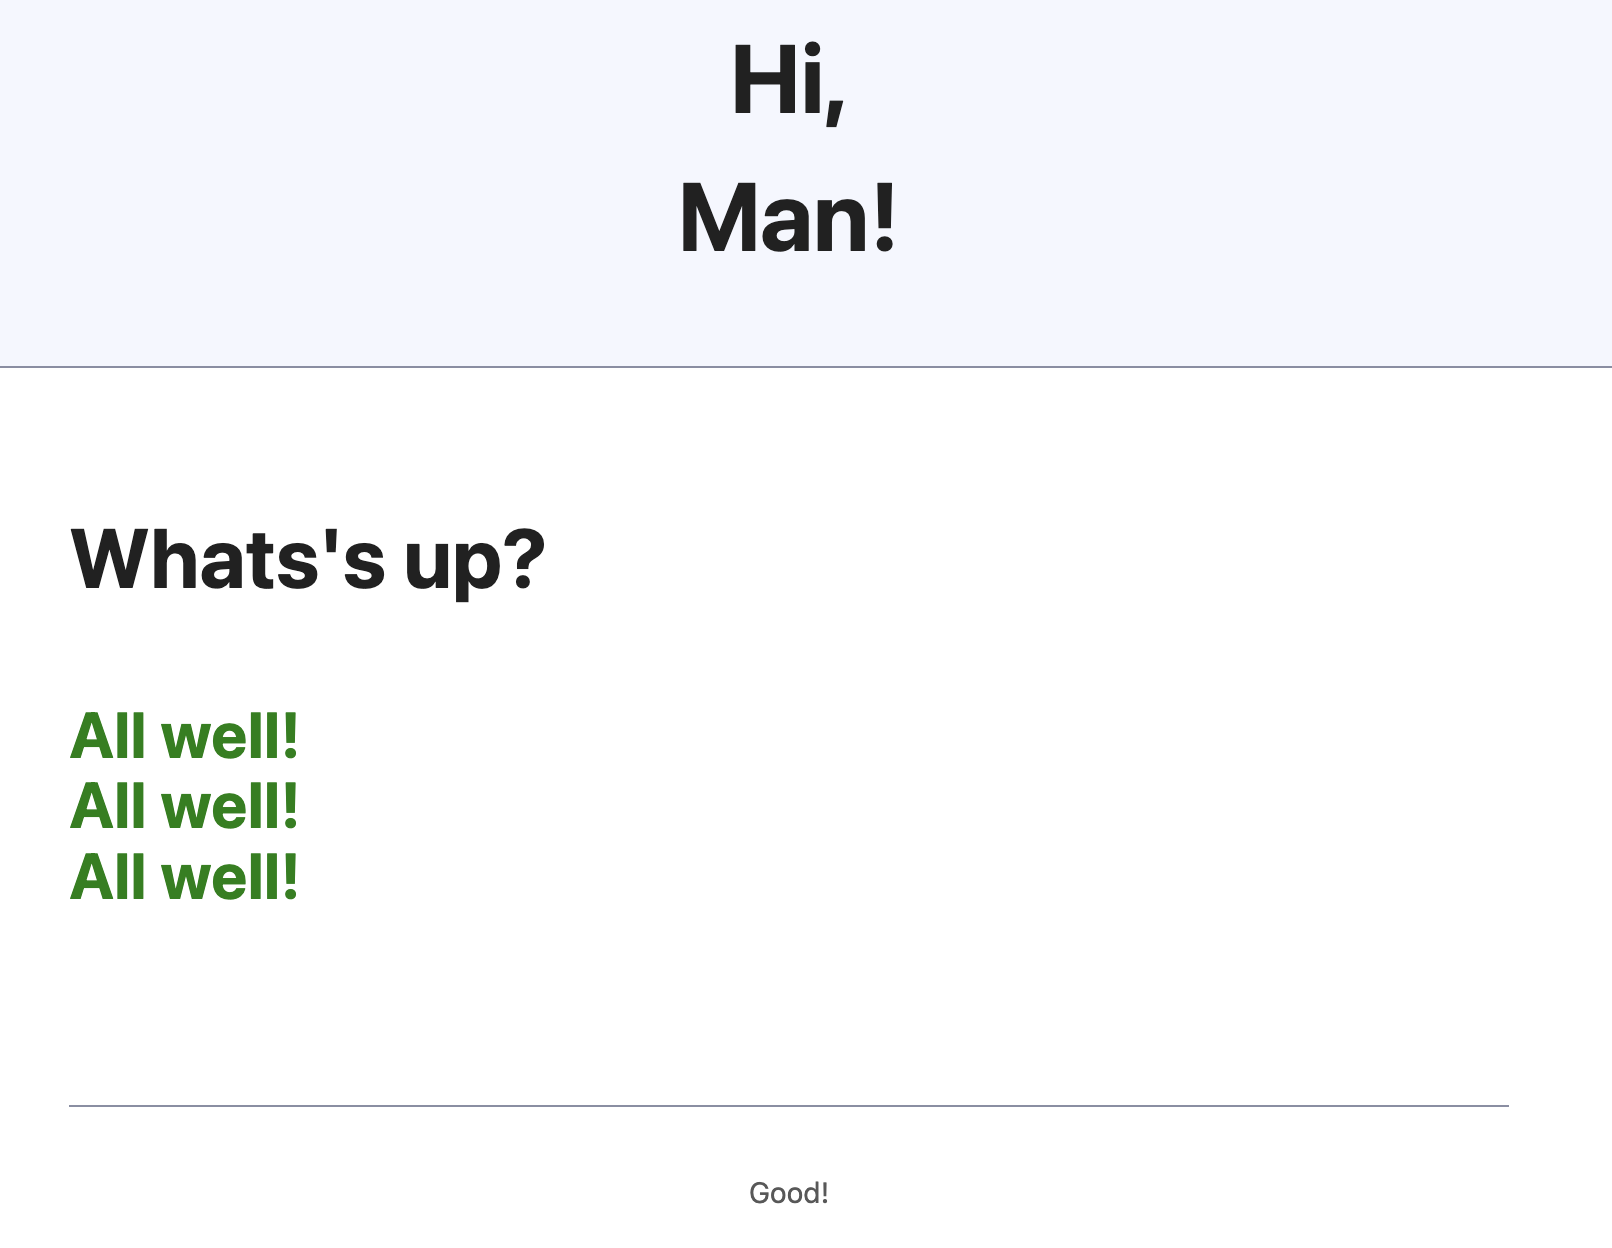
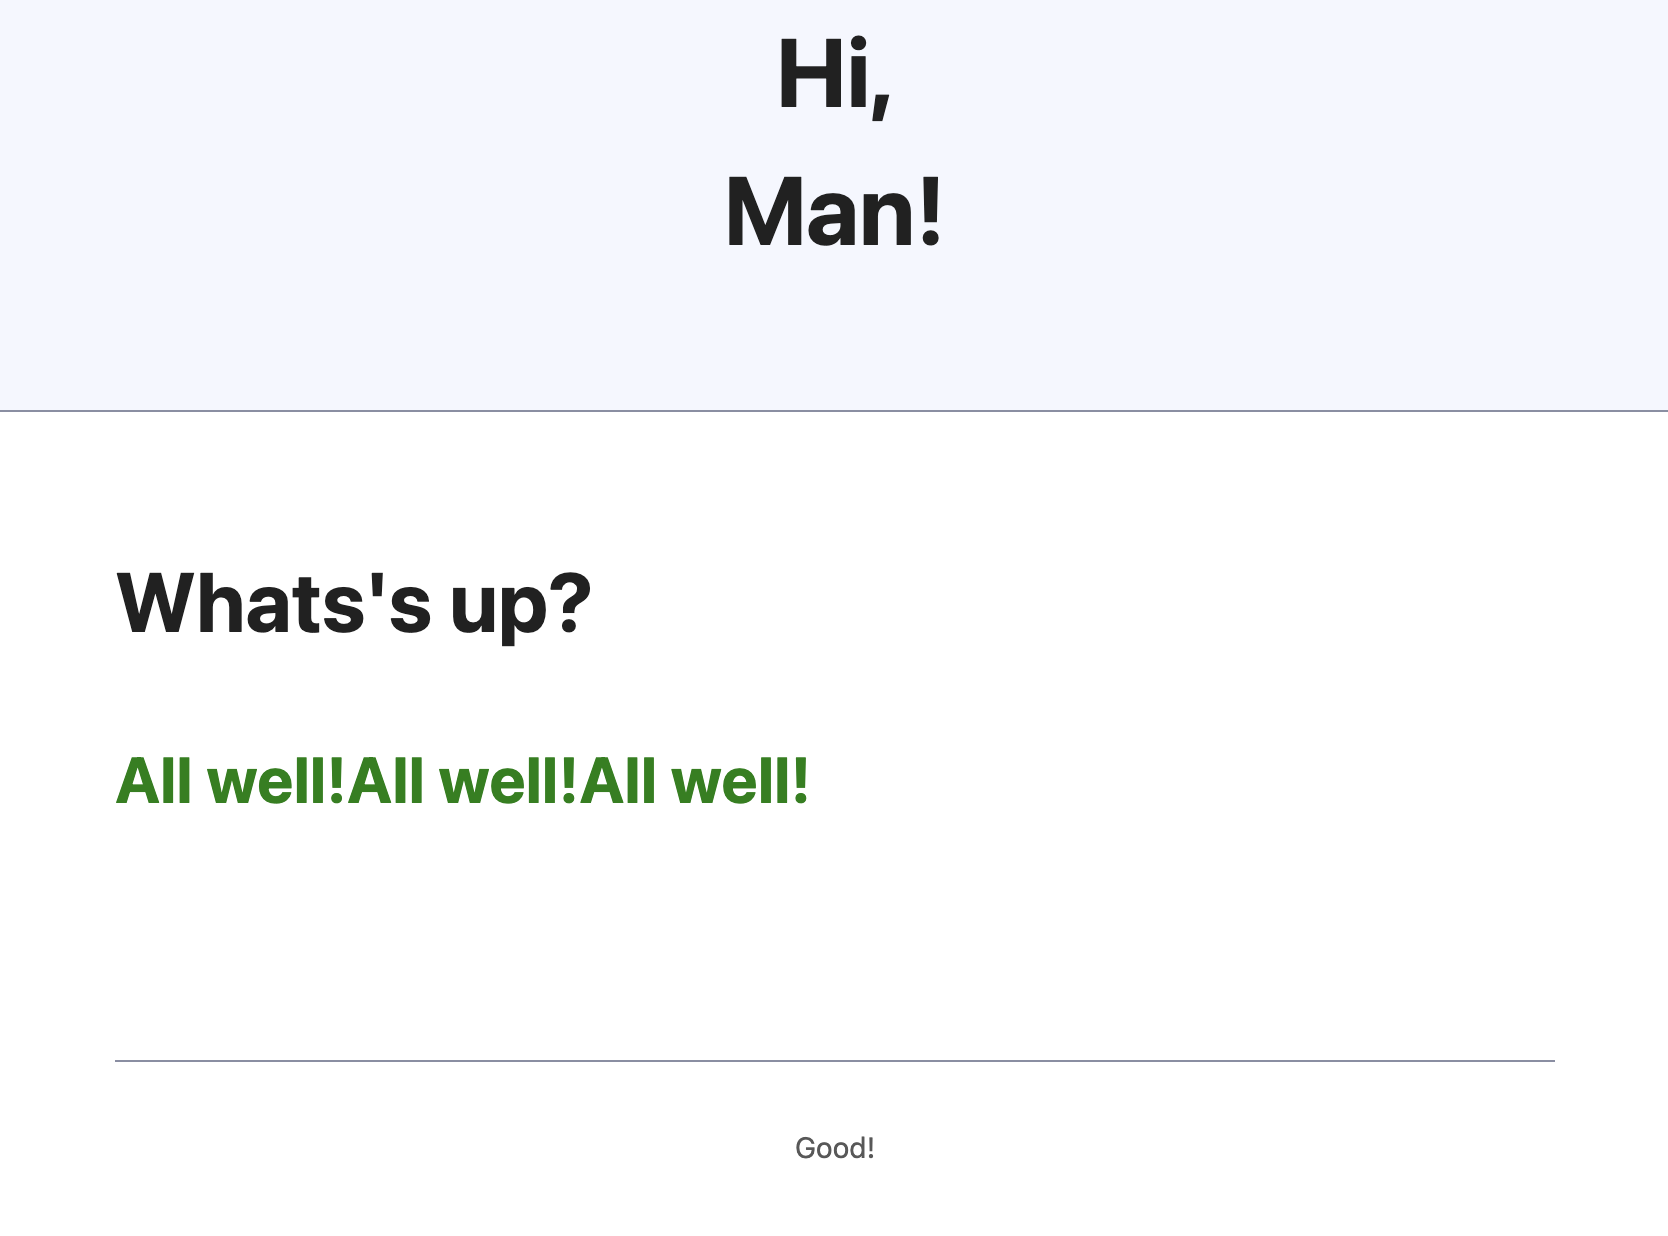
better loop

diff --git a/express-json-html.js b/express-json-html.js
@@ -19,17 +19,25 @@ module.exports = (app)=>{
 
 function interpellate(json, options) {
     for(let key in json){
-        if(json[key].loop) {
-            let cnt = json[key].loop.cnt;
-            delete json[key].loop.cnt;
+        let loop = false;
+        for(let k in json[key]) {
+            if (k === "loop"){
+                loop = true
+                break;
+            }
+        }
+
+        if(loop) {
+            let cnt = json[key].loop;
+            delete json[key].loop;
             let rr = [];
             for(let i=0;i<cnt;i++) {
-                for (let k in json[key].loop) {
-                    let obj = {[k]:json[key].loop[k]}
+                for (let k in json) {
+                    let obj = {[k]:json[k]}
                     rr.push(obj);
                 }
             }
-            json[key].loop = rr;
+            json[key] = rr;
         }
 
         if(typeof json[key] === "string"){

diff --git a/README.md b/README.md
@@ -28,11 +28,9 @@ http://localhost:3000/
         "h2": "Whats's up?",
         "h3": {
           "attr": {"style": "color:green"},
-          "loop": {
-            "cnt": 3,
-            "div": {
-              "span": "All well!"
-            }
+          "span": {
+            "loop": 3,
+            "span": "All well!"
           }
         }
       },
